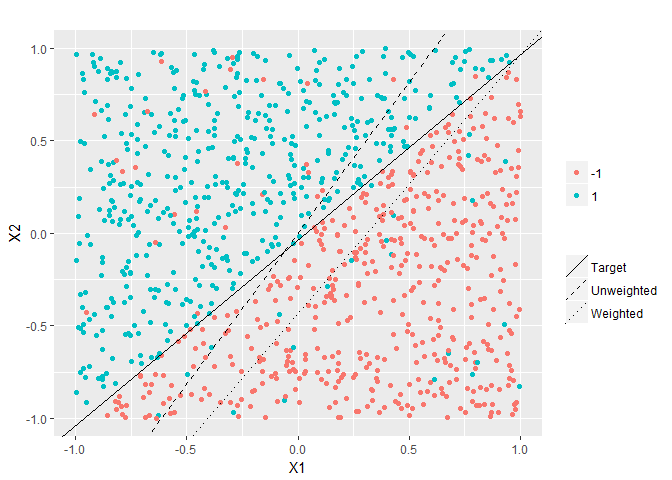
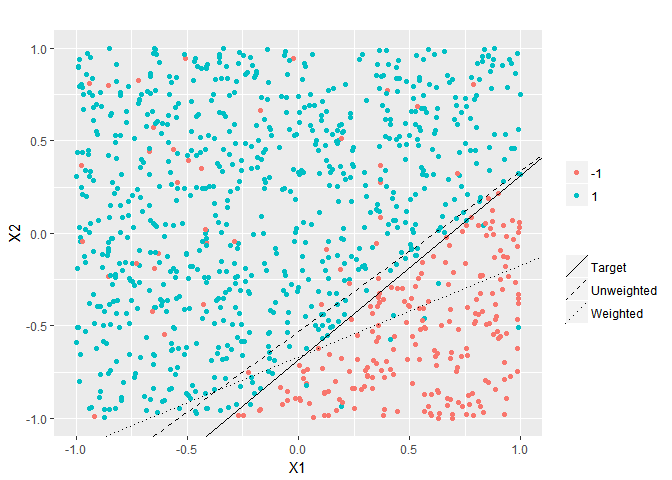
update

Changed region(s): [[0.0938, 0.0938, 0.7812, 0.875], [0.25, 0.9062, 0.2812, 0.9688], [0.0938, 0.9062, 0.125, 0.9688]]

diff --git a/perceptron/weightedplanoise.md b/perceptron/weightedplanoise.md
@@ -1,7 +1,7 @@
 Weighted perceptron with noise
 ================
 
-In this document, I will use Perceptron Learning Algorithm (PLA) to classify some non linearly separable 2D data. These data are generated by adding some noises to the original linearly separable data. To use PLA for non linearly separable data, some adjustments needed to be made to the algorithm. More specifically, instead of repeating the algorithm until no more points are misclassified (which is unachievable with non linearly separable data), we will have to specify the number of iterations to run and keep the set of weights that acheives the best performance as our final hypothesis. This algorithm that keeps the best solution while looking for others is called pocket algorithm.
+In this document, I will use Perceptron Learning Algorithm (PLA) to classify some non linearly separable 2D data. These data are generated by adding some noises to the original linearly separable data. To use PLA for non linearly separable data, some adjustments needed to be made to the algorithm. More specifically, instead of repeating the algorithm until no more points are misclassified (which is unachievable with non linearly separable data), we will have to specify the number of iterations to run and keep the set of weights that achieves the best performance as our final hypothesis. This algorithm that keeps the best solution while looking for others is called pocket algorithm.
 
 Besides introducing noises, I will also attribute different weights to the two classes of data in order to decrease one type of classification error (often at the expenses of increasing the other type). Having different weights is very useful in practice when one type of error is more undesirable than the other.
 
@@ -77,7 +77,7 @@ while (count < maxit)
 
 ### Weighted PLA
 
-The goal of assigning different weights to the two classes of data is to emphasize the importance of one class and decrease the chance that the model commits errors on this class. This is useful, for example, in a disease diagnosis setting where we would like to put more emphasis on the positive cases (infected) then on the negative cases (not infected) when training our model. Here, I assign 9 times more weights to positive points (those labeled \(+1\)) then negative points(those labeled \(-1\)). Intuitively, this can be done by increasing the number of positive points in the data through copying and pasting. However, to avoid unnecessary consumption of computational resource, an alternative way to achieve the same effect is to increase the chance that the algorithm stumbles across positive points when choosing a point to adjust its weights and the error associated with misclassifying positive points.
+The goal of assigning different weights to the two classes of data is to emphasize the importance of one class and decrease the chance that the model commits errors on this class. This is useful, for example, in a disease diagnosis setting where we would like to put more emphasis on the positive cases (infected) then on the negative cases (not infected) when training our model. Here, I assign 9 times more weights to positive points (those labeled \(+1\)) than negative points(those labeled \(-1\)). Intuitively, this can be done by increasing the number of positive points in the data through copying and pasting. However, to avoid the consumption of unnecessary computational resources, an alternative way to achieve the same effect is to increase the chance that the algorithm stumbles across positive points when choosing a point to adjust its weights and the error associated with misclassifying positive points.
 
 ``` r
 ## Initialize
@@ -128,8 +128,8 @@ table(actual=Y_test,predicted_unweighted=sign(Y_hat_test_uw))
 
     ##       predicted_unweighted
     ## actual  -1   1
-    ##     -1 429  59
-    ##     1   77 435
+    ##     -1 208  38
+    ##     1   53 701
 
 ``` r
 table(actual=Y_test,predicted_weighted=sign(Y_hat_test_w))
@@ -137,8 +137,8 @@ table(actual=Y_test,predicted_weighted=sign(Y_hat_test_w))
 
     ##       predicted_weighted
     ## actual  -1   1
-    ##     -1 342 146
-    ##     1   18 494
+    ##     -1 150  96
+    ##     1   21 733
 
 However, this comes often at the expenses of increasing the overall out-of-sample error.
 
@@ -146,13 +146,13 @@ However, this comes often at the expenses of increasing the overall out-of-sampl
 Eout_unw # Out-of-sample error of the unweighted PLA
 ```
 
-    ## [1] 0.136
+    ## [1] 0.091
 
 ``` r
 Eout_w # Out-of-sample error of the weighted PLA
 ```
 
-    ## [1] 0.164
+    ## [1] 0.117
 
 The target function and the final hypothesis of the unweighted and the weighted PLA are presented in the graph below along with the test points. It can be observed that the final hypothesis of the weighted PLA falls lower to the negative zone thereby classifies more points as positive. Considering that we told the algorithm to avoid classifying positive points as negative, this is an expected outcome.
 
